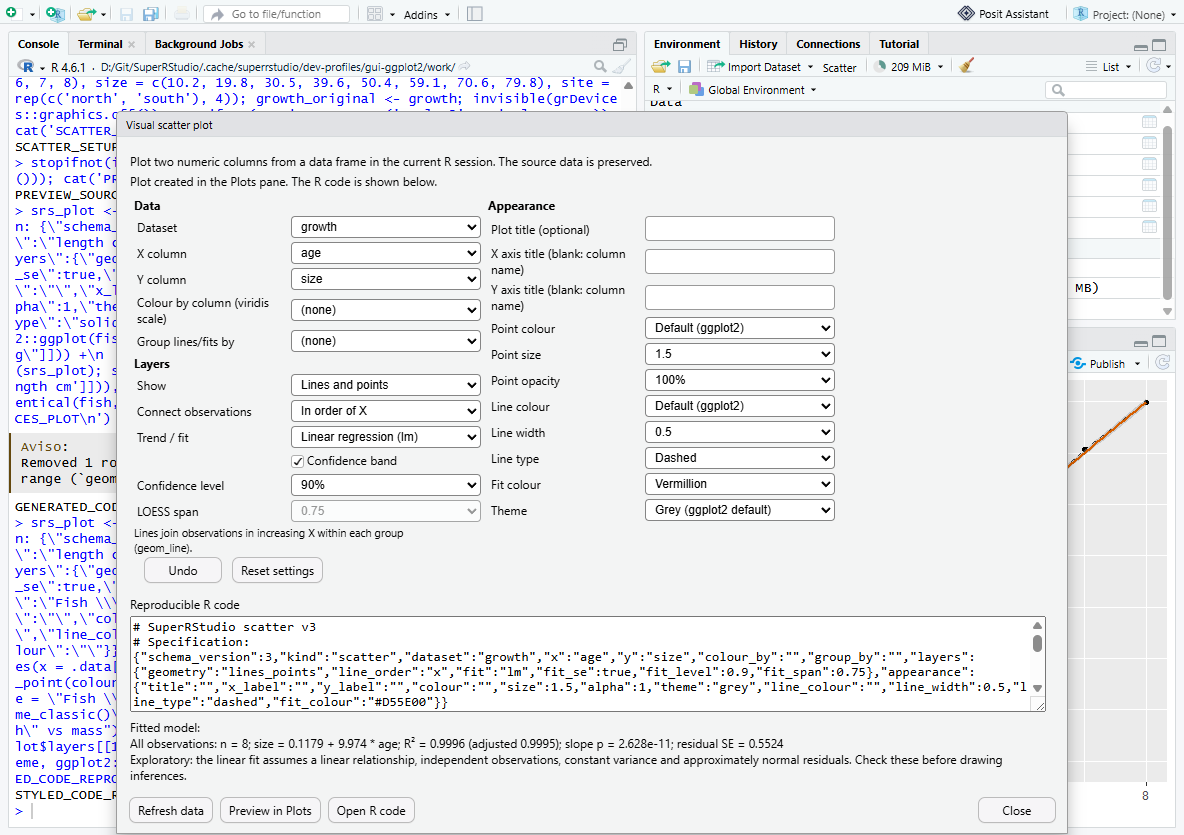
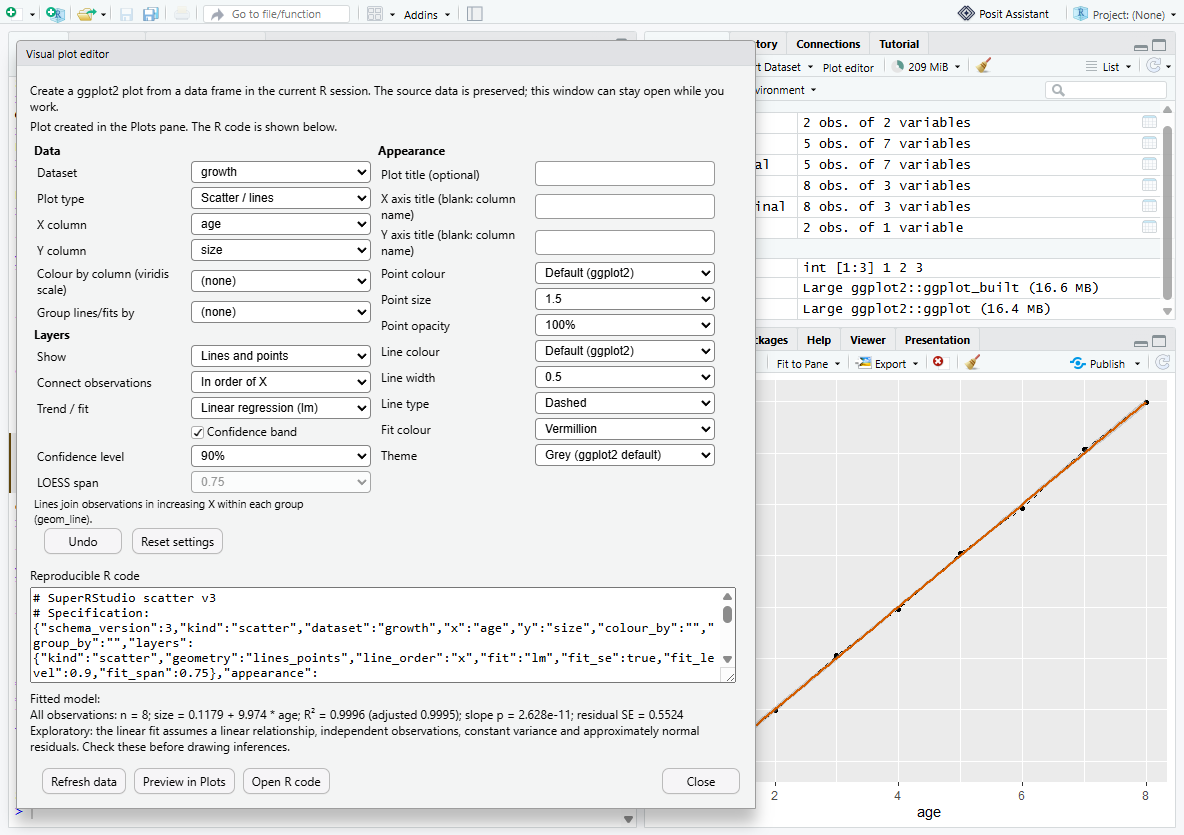
Make the visual plot editor a non-modal, draggable window
The editor no longer extends ModalDialog: it is a non-modal DialogBox
with RStudio's dialog styling, opened at the left of the workbench so the
Plots pane, console and the rest of the IDE stay usable while editing.
It is not registered with ModalDialogTracker (no glass overlay, global
shortcuts and console keys unaffected) and handles Escape only for its
own content; a single instance is kept and brought to the front. Renamed
to "Visual plot editor" / "Plot editor" since it now covers several plot
types; narrower two-column layout.

The desktop test now edits data in the console while the editor is
open, checks the stale-data refusal and the refresh path, the absence of
a glass overlay, and Escape-to-close; all three scenarios pass.

diff --git a/src/gwt/src/org/rstudio/studio/client/workbench/views/superrstudio/ScatterDialog.java b/src/gwt/src/org/rstudio/studio/client/workbench/views/superrstudio/ScatterDialog.java
@@ -11,14 +11,17 @@ import com.google.gwt.aria.client.Roles;
 import com.google.gwt.core.client.GWT;
 import com.google.gwt.core.client.JsArray;
 import com.google.gwt.core.client.JsArrayString;
+import com.google.gwt.event.dom.client.KeyCodes;
+import com.google.gwt.event.dom.client.KeyDownEvent;
 import com.google.gwt.json.client.JSONBoolean;
 import com.google.gwt.json.client.JSONNumber;
 import com.google.gwt.json.client.JSONObject;
 import com.google.gwt.json.client.JSONString;
 import com.google.gwt.json.client.JSONValue;
 import com.google.gwt.user.client.ui.*;
+import org.rstudio.core.client.ElementIds;
+import org.rstudio.core.client.theme.res.ThemeStyles;
 import org.rstudio.core.client.widget.FormLabel;
-import org.rstudio.core.client.widget.ModalDialog;
 import org.rstudio.core.client.widget.OperationWithInput;
 import org.rstudio.core.client.widget.ThemedButton;
 import org.rstudio.studio.client.application.events.EventBus;
@@ -30,8 +33,29 @@ import org.rstudio.studio.client.workbench.views.source.model.SourcePosition;
 
 // Visual plot editor for the active R session: scatter/lines (with fits),
 // histograms and boxplots, one shared specification and settings table.
-public class ScatterDialog extends ModalDialog<Void>
+//
+// A non-modal, draggable window (not a ModalDialog): the Plots pane, the
+// console and the rest of the IDE stay usable while it is open. It is not
+// registered with ModalDialogTracker, and handles Escape only for its own
+// content, so global shortcuts and console keys are unaffected.
+public class ScatterDialog extends DialogBox
 {
+   // Opens the editor, or brings the already open one to the front.
+   public static void open(SuperRStudioServerOperations server, EventBus events, Commands commands)
+   {
+      if (instance_ != null && instance_.isShowing())
+      {
+         instance_.show();
+         instance_.focusFirst();
+         return;
+      }
+      instance_ = new ScatterDialog(server, events, commands);
+      instance_.show();
+      instance_.setPopupPosition(16, 40);
+      instance_.focusFirst();
+      instance_.refresh();
+   }
+
    // An undoable plot setting: its JSON key, editing widget, value type and
    // default. Values are handled as strings and typed when sent to R.
    private static class Setting
@@ -81,23 +105,30 @@ public class ScatterDialog extends ModalDialog<Void>
       final Widget widget;
    }
 
-   public ScatterDialog(SuperRStudioServerOperations server, EventBus events, Commands commands)
+   private ScatterDialog(SuperRStudioServerOperations server, EventBus events, Commands commands)
    {
-      super(messages_.title(), Roles.getDialogRole(), (OperationWithInput<Void>) null);
+      super(false, false);   // no auto-hide, not modal
+      setGlassEnabled(false);
+      setText(messages_.title());
+      addStyleDependentName("ModalDialog");   // same look and z-order as RStudio dialogs
+      Roles.getDialogRole().set(getElement());
+      getElement().setAttribute("aria-modal", "false");
       server_ = server;
       events_ = events;
       commands_ = commands;
-      // A single Close action: the cancel button (also bound to Escape).
-      setOkButtonVisible(false);
-      setCancelButtonCaption(messages_.close());
       preview_ = new ThemedButton(messages_.preview(), e -> generate(false));
       export_ = new ThemedButton(messages_.exportCode(), e -> generate(true));
       refresh_ = new ThemedButton(messages_.refresh(), e -> refresh());
+      close_ = new ThemedButton(messages_.close(), e -> closeDialog());
       undo_ = new ThemedButton(messages_.undo(), e -> undo());
       reset_ = new ThemedButton(messages_.reset(), e -> reset());
-      addLeftButton(refresh_, "superrstudio_refresh");
-      addLeftButton(preview_, "superrstudio_preview");
-      addLeftButton(export_, "superrstudio_export");
+      addDomHandler(e -> {
+         if (e.getNativeKeyCode() == KeyCodes.KEY_ESCAPE)
+         {
+            e.preventDefault();
+            closeDialog();
+         }
+      }, KeyDownEvent.getType());
 
       option(kind_, messages_.kindScatter(), KIND_SCATTER);
       option(kind_, messages_.kindHistogram(), KIND_HISTOGRAM);
@@ -182,13 +213,24 @@ public class ScatterDialog extends ModalDialog<Void>
       for (Setting setting : settings_)
          if (setting.widget instanceof ListBox)
             ((ListBox) setting.widget).addChangeHandler(e -> settingsChanged());
+      setWidget(createMainWidget());
    }
 
-   @Override protected Widget createMainWidget()
+   private void focusFirst()
+   {
+      datasets_.setFocus(true);
+   }
+
+   private void closeDialog()
+   {
+      hide();
+   }
+
+   private Widget createMainWidget()
    {
       VerticalPanel panel = new VerticalPanel();
       panel.setSpacing(4);
-      panel.setWidth("930px");
+      panel.setWidth("720px");
       panel.add(new Label(messages_.help()));
       status_.getElement().setId("superrstudio_status");
       status_.getElement().setAttribute("role", "status");
@@ -259,7 +301,7 @@ public class ScatterDialog extends ModalDialog<Void>
 
       code_.setReadOnly(true);
       code_.setVisibleLines(6);
-      code_.setWidth("910px");
+      code_.setWidth("700px");
       code_.getElement().setId("superrstudio_code");
       panel.add(new FormLabel(messages_.codeLabel(), code_));
       panel.add(code_);
@@ -267,11 +309,32 @@ public class ScatterDialog extends ModalDialog<Void>
       model_.getElement().setAttribute("role", "status");
       model_.getElement().setAttribute("aria-live", "polite");
       model_.getElement().getStyle().setProperty("whiteSpace", "pre-line");
-      model_.setWidth("910px");
+      model_.setWidth("700px");
       panel.add(model_);
+
+      HorizontalPanel buttons = new HorizontalPanel();
+      buttons.setStyleName(ThemeStyles.INSTANCE.dialogBottomPanel());
+      buttons.setWidth("100%");
+      HorizontalPanel leftButtons = new HorizontalPanel();
+      button(leftButtons, refresh_, "superrstudio_refresh");
+      button(leftButtons, preview_, "superrstudio_preview");
+      button(leftButtons, export_, "superrstudio_export");
+      buttons.add(leftButtons);
+      HorizontalPanel rightButtons = new HorizontalPanel();
+      button(rightButtons, close_, "superrstudio_close");
+      buttons.add(rightButtons);
+      buttons.setCellHorizontalAlignment(rightButtons, HasHorizontalAlignment.ALIGN_RIGHT);
+      panel.add(buttons);
       layoutChanged();
       updateUndo();
       return panel;
+   }
+
+   private static void button(HorizontalPanel panel, ThemedButton button, String id)
+   {
+      button.addStyleDependentName("DialogAction");
+      ElementIds.assignElementId(button, id);
+      panel.add(button);
    }
 
    private Grid section(String heading, int rows)
@@ -294,7 +357,7 @@ public class ScatterDialog extends ModalDialog<Void>
    private FormLabel row(Grid grid, int row, String text, Widget control, String id)
    {
       control.getElement().setId(id);
-      control.setWidth("190px");
+      control.setWidth("180px");
       FormLabel label = null;
       if (!text.isEmpty())
       {
@@ -604,13 +667,6 @@ public class ScatterDialog extends ModalDialog<Void>
 
    // Session requests --------------------------------------------------------
 
-   @Override protected void onDialogShown()
-   {
-      super.onDialogShown();
-      refresh();
-   }
-   @Override protected Void collectInput() { return null; }
-
    private boolean columnsChosen()
    {
       String kind = kind();
@@ -754,7 +810,7 @@ public class ScatterDialog extends ModalDialog<Void>
    private final TextArea code_ = new TextArea();
    private final Label status_ = new Label(), model_ = new Label(), orderHint_ = new Label();
    private FormLabel xRowLabel_, yRowLabel_, colourByLabel_, lineColourLabel_;
-   private final ThemedButton preview_, export_, refresh_, undo_, reset_;
+   private final ThemedButton preview_, export_, refresh_, close_, undo_, reset_;
    private final Map<Widget, Object[]> rows_ = new HashMap<>();
    private final List<Setting> settings_ = new ArrayList<>();
    private final List<String[]> history_ = new ArrayList<>();
@@ -764,5 +820,6 @@ public class ScatterDialog extends ModalDialog<Void>
    private boolean restoring_ = false;
    private String revision_ = "";
    private int requestId_ = 0;
+   private static ScatterDialog instance_;
    private static final ScatterMessages messages_ = GWT.create(ScatterMessages.class);
 }

diff --git a/src/gwt/src/org/rstudio/studio/client/workbench/views/superrstudio/ScatterMessages.java b/src/gwt/src/org/rstudio/studio/client/workbench/views/superrstudio/ScatterMessages.java
@@ -3,9 +3,9 @@ package org.rstudio.studio.client.workbench.views.superrstudio;
 import com.google.gwt.i18n.client.Messages;
 public interface ScatterMessages extends Messages
 {
-   @DefaultMessage("Visual scatter plot") String title();
-   @DefaultMessage("Scatter") String toolbarLabel();
-   @DefaultMessage("Plot two numeric columns from a data frame in the current R session. The source data is preserved.") String help();
+   @DefaultMessage("Visual plot editor") String title();
+   @DefaultMessage("Plot editor") String toolbarLabel();
+   @DefaultMessage("Create a ggplot2 plot from a data frame in the current R session. The source data is preserved; this window can stay open while you work.") String help();
    @DefaultMessage("Data") String dataHeading();
    @DefaultMessage("Layers") String layersHeading();
    @DefaultMessage("Appearance") String appearanceHeading();

diff --git a/src/gwt/src/org/rstudio/studio/client/workbench/views/environment/EnvironmentPane.java b/src/gwt/src/org/rstudio/studio/client/workbench/views/environment/EnvironmentPane.java
@@ -565,7 +565,7 @@ public class EnvironmentPane extends WorkbenchPane
             messages.toolbarLabel(),
             messages.title(),
             (ImageResource) null,
-            event -> new ScatterDialog(server_, events_, commands_).showModal());
+            event -> ScatterDialog.open(server_, events_, commands_));
       ElementIds.assignElementId(button, ElementIds.SUPERRSTUDIO_SCATTER);
       button.setVisible(false);
 

diff --git a/docs/superrstudio/features/visual-scatter.md b/docs/superrstudio/features/visual-scatter.md
@@ -67,6 +67,14 @@ branch `feature/visual-scatter`. Opt-in: the session must be started with
      non-scatter kinds, fixed fill with a fill column) are rejected with a
      message; they are validated before the ggplot2 availability check.
 
+10. **Non-modal editor window** (*Plot editor* button). The editor is a
+   draggable, non-modal window opened at the left of the workbench, so the
+   Plots pane, console and the rest of the IDE stay usable while it is open;
+   only one editor is open at a time (the button brings it to the front). It
+   is not a `ModalDialog`: there is no glass overlay, it is not registered with
+   `ModalDialogTracker`, and Escape is handled only inside the editor. Data
+   changed in the console while it is open is detected and must be refreshed.
+
 Generated code (the header records the versioned specification and versions):
 
 ```r
@@ -120,11 +128,9 @@ left-associated sum.
 - Spanish strings exist but are not compiled: the GWT module only builds
   `en,fr` (`RStudio.gwt.xml`). Adding `es` needs a locale permutation and the
   `ui_language` preference value; tracked for M7.
-- Stale-data rejection is covered by the R contract test, not driven in the GUI
-  (the modal dialog blocks console input).
 - Only global-environment data frames; tibbles/data.tables (classed frames) are
   intentionally excluded in this slice.
-- The modal dialog must be closed to use the console and partly covers the
-  Plots pane; a non-modal editor is planned for the ggplot2 editor milestone (M4).
+- The editor is a floating window, not yet a dockable workbench pane;
+  contextual (right-click) editing of plot elements is not implemented yet.
 - Text appearance fields commit on blur/Enter (GWT value-change semantics);
   undo history is per dialog and not persisted.

diff --git a/HANDOFF.md b/HANDOFF.md
@@ -31,7 +31,7 @@ Windows 11 x64 comes first, Windows 10 remains experimental, Ubuntu 24.04 follow
    appearance controls with undo/reset, colour-by-column, connected lines with
    explicit order and grouping, lm/LOESS fits with confidence bands and a
    fitted-model panel validated against reference R, and histogram/boxplot
-   plot types in the same editor (spec schema 3, `kind`).
+   plot types in the same non-modal editor window (spec schema 3, `kind`).
    Details, design and evidence: [visual-scatter.md](docs/superrstudio/features/visual-scatter.md).
 2. **Development mode** (no installer): `tools/superrstudio/dev-build.ps1`,
    `dev-run.ps1`, `dev.ps1`, `dev-clean.ps1`, VS Code tasks via
@@ -79,9 +79,10 @@ a non-interactive caller's pipe open unless run in the background or with `-Wait
 2. Done: colour-by-column (viridis discrete/continuous scale), desktop-verified.
 3. Done: lines, ordering, grouping, lm/LOESS fits and model statistics.
    Done: histogram and boxplot kinds (statistics equal ggplot2's).
-4. **Next (Milestone 3): non-modal editor** so the Plots pane stays
-   visible (the modal dialog covers it); then line/bar/density kinds,
-   tibble/data.table discovery, and development branding.
+4. Done: non-modal, draggable editor window (Plots pane and console usable
+   while it is open; stale data detected). **Next:** tibble/data.table
+   discovery (Milestone 4), then bar/density kinds, a property-editor
+   foundation for contextual editing, and development branding (Milestone 6).
 5. M4 groundwork: saving/loading specifications and contextual editing on a
    structured specification (not on the raster image).
 6. Before release: dependency audit, localized logging test, `es` locale build.
